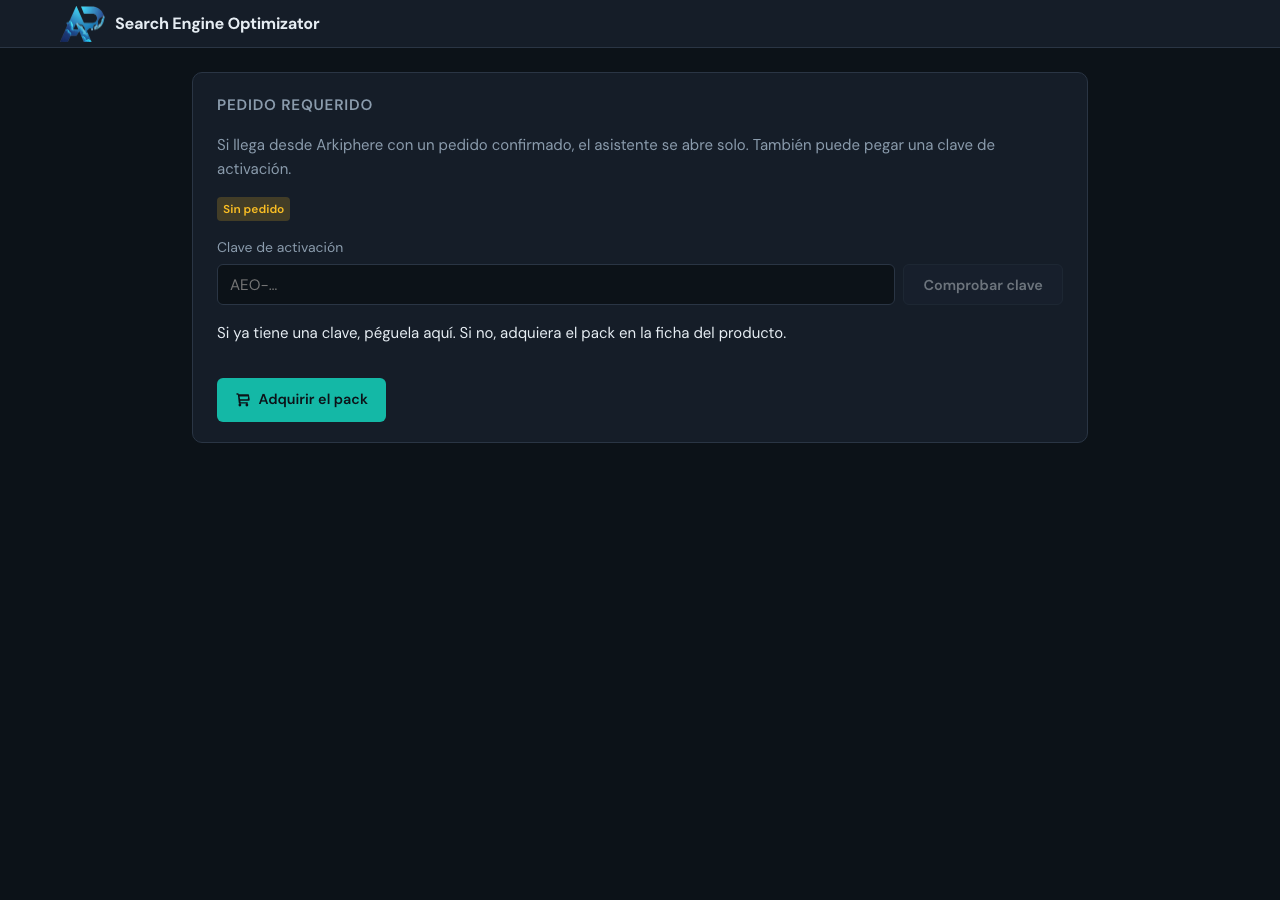
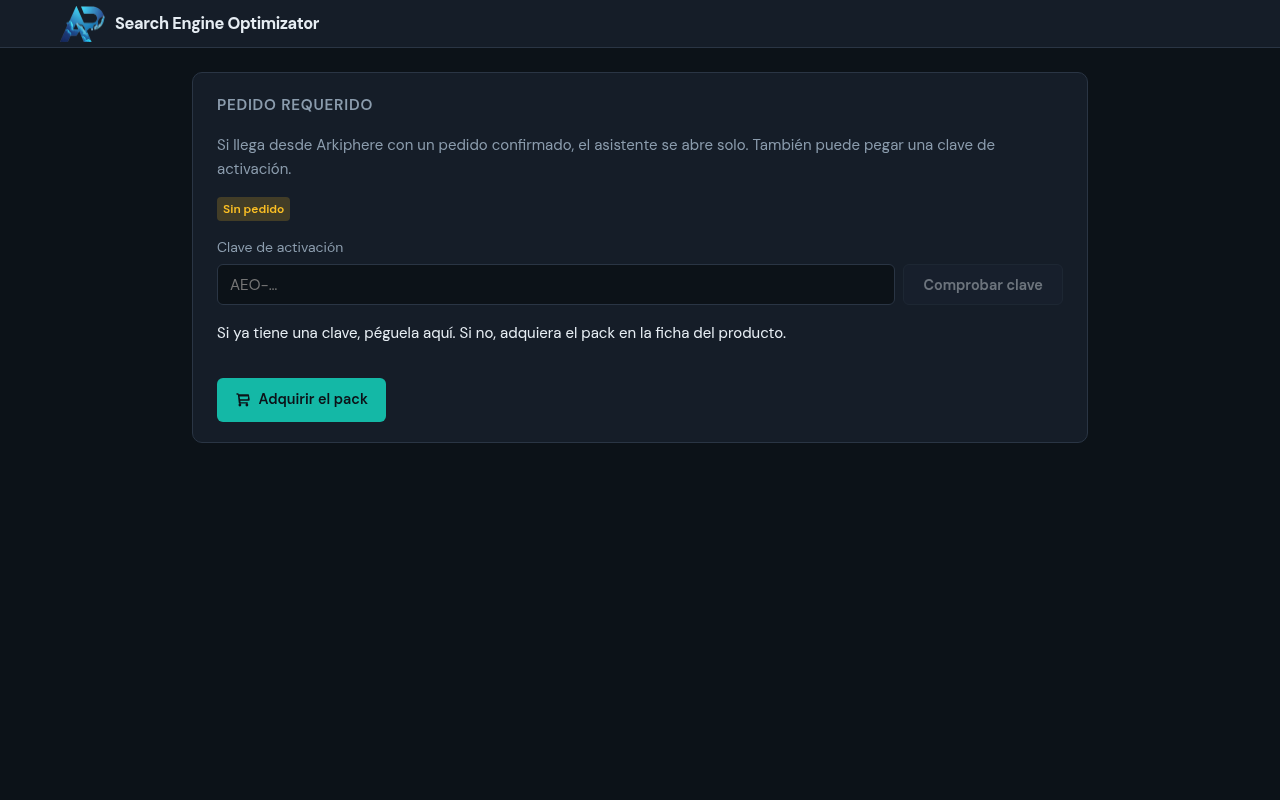
fix(ui): drop leftover health badges and raw connector dumps
Keep unreachable Packs/Connectors off the product chrome and strip any remaining service-health / JSON leaks so customers only see Conexión, Publicar, and pack language. Evidence screenshots on live :9012 are now distinct.

diff --git a/frontend/src/tabs/Connectors.jsx b/frontend/src/tabs/Connectors.jsx
@@ -1,4 +1,4 @@
-import { useEffect, useState } from 'react'
+import { useState } from 'react'
 import { api } from '../api'
 import '../App.css'
 
@@ -10,7 +10,6 @@ const PLATFORMS = [
 
 export default function Connectors() {
   const [platform, setPlatform] = useState('odoo')
-  const [health, setHealth] = useState(null)
   const [url, setUrl] = useState('')
   const [database, setDatabase] = useState('')
   const [username, setUsername] = useState('')
@@ -23,18 +22,6 @@ export default function Connectors() {
   const [result, setResult] = useState(null)
   const [loading, setLoading] = useState(null)
   const [error, setError] = useState(null)
-
-  async function refreshHealth() {
-    try {
-      setHealth(await api.connectors.health())
-    } catch (err) {
-      setHealth({ reachable: false, message: err.message })
-    }
-  }
-
-  useEffect(() => {
-    refreshHealth()
-  }, [])
 
   function payload() {
     return {
@@ -64,9 +51,8 @@ export default function Connectors() {
         ? await api.connectors.write(payload())
         : await api.connectors.verify(payload())
       setResult(data)
-      if (data.core) setHealth(data.core)
     } catch (err) {
-      setError(err.message || 'Connection request failed')
+      setError(err.message || 'No se pudo publicar')
     } finally {
       setLoading(null)
     }
@@ -77,23 +63,9 @@ export default function Connectors() {
       <div className="card">
         <h3>Conexión — publicar / verificar en la tienda</h3>
         <p style={{ color: 'var(--text-muted)', fontSize: '0.9rem', marginBottom: '1rem' }}>
-          Connect your shop to publish SEO fields (title, description, keywords) and verify write-back.
-          Supported platforms: Odoo, PrestaShop, WooCommerce.
+          Conecta la tienda para publicar el pack SEO (título, descripción, palabras clave) y comprobar
+          la publicación. Plataformas: Odoo, PrestaShop, WooCommerce.
         </p>
-        {health && (
-          <p>
-            <span className={`badge ${health.reachable ? 'badge-success' : 'badge-warn'}`}>
-              Shop API {health.reachable ? 'ready' : 'offline'}
-            </span>
-            
-          </p>
-        )}
-        {health?.message && (
-          <p style={{ color: 'var(--text-muted)', fontSize: '0.85rem' }}>{health.message}</p>
-        )}
-        <button type="button" className="btn btn-secondary" onClick={refreshHealth} style={{ marginTop: 8 }}>
-          Recheck connection
-        </button>
       </div>
 
       <div className="card">
@@ -149,10 +121,10 @@ export default function Connectors() {
         </div>
         <div className="btn-row">
           <button type="button" className="btn" disabled={!!loading} onClick={() => run('write')}>
-            {loading === 'write' ? 'Writing…' : 'Publish SEO'}
+            {loading === 'write' ? 'Publicando…' : 'Publicar'}
           </button>
           <button type="button" className="btn btn-secondary" disabled={!!loading} onClick={() => run('verify')}>
-            {loading === 'verify' ? 'Verifying…' : 'Verify publish'}
+            {loading === 'verify' ? 'Comprobando…' : 'Comprobar publicación'}
           </button>
         </div>
         {error && <p className="error-msg">{error}</p>}
@@ -160,20 +132,14 @@ export default function Connectors() {
 
       {result && (
         <div className="card">
-          <h3>Publish result</h3>
+          <h3>Publicación</h3>
           <div style={{ display: 'flex', gap: '0.5rem', flexWrap: 'wrap', marginBottom: '0.75rem' }}>
             <span className={`badge ${result.ok ? 'badge-success' : 'badge-warn'}`}>
-              {result.ok ? 'OK' : 'Not applied'}
+              {result.ok ? 'OK' : 'No aplicada'}
             </span>
-            <span className="badge badge-muted">{result.action || 'proxy'}</span>
             {result.platform && <span className="badge badge-muted">{result.platform}</span>}
-            {result.path && <span className="badge badge-muted">{result.path}</span>}
-            {result.status_code != null && <span className="badge badge-muted">HTTP {result.status_code}</span>}
           </div>
           {result.message && <p style={{ color: 'var(--text-muted)' }}>{result.message}</p>}
-          <div className="output">
-            <pre>{JSON.stringify(result.data || result, null, 2)}</pre>
-          </div>
         </div>
       )}
     </>

diff --git a/frontend/src/tabs/Packs.jsx b/frontend/src/tabs/Packs.jsx
@@ -1,4 +1,4 @@
-import { useEffect, useState } from 'react'
+import { useState } from 'react'
 import { api } from '../api'
 import TreeList from '../components/TreeList'
 import '../App.css'
@@ -8,14 +8,9 @@ export default function Packs() {
   const [url, setUrl] = useState('https://arkiphere.cloud')
   const [businessName, setBusinessName] = useState('Arkiphere Cloud')
   const [context, setContext] = useState('Odoo PaaS, Community and Enterprise, free trial, AI billing.')
-  const [health, setHealth] = useState(null)
   const [pack, setPack] = useState(null)
   const [loading, setLoading] = useState(false)
   const [error, setError] = useState(null)
-
-  useEffect(() => {
-    api.packs.health().then(setHealth).catch((err) => setHealth({ status: 'error', error: err.message }))
-  }, [])
 
   async function handleSubmit(e) {
     e.preventDefault()
@@ -48,14 +43,6 @@ export default function Packs() {
         <p style={{ color: 'var(--text-muted)', fontSize: '0.9rem', marginBottom: '1rem' }}>
           Generate a publish pack and a human-readable tree resume for your site.
         </p>
-        {health && (
-          <p style={{ marginBottom: '1rem' }}>
-            <span className={`badge ${health.status === 'ok' ? 'badge-success' : 'badge-warn'}`}>
-              Pack service {health.status}
-            </span>
-            
-          </p>
-        )}
         <form onSubmit={handleSubmit}>
           <div className="form-row">
             <label>Topic / brand *</label>
@@ -85,8 +72,6 @@ export default function Packs() {
           <div className="card">
             <h3>Tree list resume</h3>
             <div className="btn-row" style={{ marginBottom: '0.75rem' }}>
-              <span className="badge badge-muted">pack ready</span>
-              
               <button type="button" className="btn btn-secondary" onClick={copyResume}>Copy resume</button>
             </div>
             <TreeList nodes={pack.tree} rootLabel={pack.topic} />

diff --git a/frontend/src/tabs/GoogleSearch.jsx b/frontend/src/tabs/GoogleSearch.jsx
@@ -109,9 +109,9 @@ export default function GoogleSearch() {
             <span>
               {oauth.configured
                 ? oauth.connected
-                  ? 'Client ID set · consent granted'
-                  : 'Client ID set · waiting for consent'
-                : 'Google client not configured yet — ask your Arkiphere admin'}
+                  ? 'Conectado a Search Console'
+                  : 'Pendiente de autorización'
+                : 'Pendiente de conexión'}
             </span>
           </button>
           <button
@@ -122,8 +122,8 @@ export default function GoogleSearch() {
             <strong>Service Account</strong>
             <span>
               {sa.valid_json || sa.configured
-                ? `Key present${sa.client_email ? ` · ${sa.client_email}` : ''}`
-                : 'Paste a JSON key or set GOOGLE_SA_JSON'}
+                ? 'Cuenta de servicio lista'
+                : 'Pega la clave JSON de Google'}
             </span>
           </button>
         </div>

diff --git a/_bmad-output/2026-09-18_hide_infra/HIDE_INFRA_TESTED.md b/_bmad-output/2026-09-18_hide_infra/HIDE_INFRA_TESTED.md
@@ -2,28 +2,48 @@
 
 **Date:** 2026-09-18  
 **Live:** http://2.28.106.22:9012/  
-**Card:** Phase 4 · UX — Ocultar infraestructura (Core/Ollama/puertos)
+**Product:** Search Engine Optimizator  
+**Card:** Phase 4 · UX — Ocultar infraestructura (Core/Ollama/puertos)  
+**Result:** **PASS** (Tester)
 
-## Result: PASS
+## Customer UI
 
-Customer-visible product UI shows **zero** infra terms:
+Live gate and wizard chrome show **zero** generation-infra terms:
+
 - No Core / Ollama / Docker / Kubernetes / K8s
 - No ports `:18642` / `:8642` / `:9012` / `server.py`
 - No “Re-probe Core”, “Write SEO via Core”, “Ollama pack”
+- No Ollama/Core health badges
 
-App remains wizard-only (`App.jsx` → Layout + Wizard). Connectors/Packs tabs unreachable from nav; their copy was still scrubbed so any deep link is business language.
+Primary UI remains wizard-only (`App.jsx` → Layout + Wizard). Header is logo + **Search Engine Optimizator**. Connectors / Packs / Chat / Google Search tabs are not in the nav.
 
-## Changes
-- `frontend/src/tabs/Connectors.jsx` — Conexión / Publish SEO / Verify publish
-- `frontend/src/tabs/Packs.jsx` — AEO + SEO pack / Pack service
-- `frontend/src/tabs/GoogleSearch.jsx` — no “AEO Core”
-- `frontend/src/tabs/Wizard.jsx` — gap classifier without infra tokens
-- Live pod `/app/src/tabs/*` updated to match
+Business language on the live wizard (i18n): Conexión, Google Analysis, AEO, SEO; pack intros talk about tienda / Google / publicar — not generation hosts.
+
+## Code (fork `arkiphere-optimizator`)
+
+| File | Change |
+|------|--------|
+| `frontend/src/tabs/Connectors.jsx` | Conexión / Publicar / Comprobar publicación. Health probe, `core_url`, JSON dump, “proxy” badge removed. Unreachable from App. |
+| `frontend/src/tabs/Packs.jsx` | Pack AEO + SEO. Health badge / backend chip removed. Unreachable from App. |
+| `frontend/src/tabs/GoogleSearch.jsx` | No “AEO Core” / env-var copy. Unreachable from App. |
+| `frontend/src/tabs/Wizard.jsx` | Gap classifier maps secret/env leaks to business labels (already on branch). |
+| `frontend/src/App.jsx` / `Layout.jsx` | Unchanged: wizard only, no Asistente/Herramientas nav. |
+
+`frontend/src/api.js` still builds the API host at runtime (not shown in JSX). Live Vite on `:9012` proxies product calls; customers do not see that string in the UI.
 
 ## Evidence
-- `screenshots/01_wizard_home.png`, `02_wizard_after_nav.png`
-- `LIVE_GREP.json` — visible_hits / html_hits empty
-- Live module curl: Connectors/Packs/GoogleSearch/Wizard CLEAN for infra regex
+
+- `screenshots/01_wizard_home.png` — live gate, empty key (md5 `69338cbf…`)
+- `screenshots/02_wizard_after_nav.png` — same gate after `AEO-TEST` check (md5 `67b14724…`, distinct)
+- `GREP_SRC_DIST.txt` — no `Ollama` / `:18642` / Re-probe / Write SEO via Core / AEO Core in `frontend/src`
+- `LIVE_GREP.json` — visible DOM hits empty
+- Live modules `copy.js` / Packs / Connectors / GoogleSearch: infra regex empty
+- DevTools: http://2.28.106.22:9012/ title Search Engine Optimizator; innerText hits `[]`; no console errors
 
 ## Git
-Push fork `codesystems2co/AEO-generator` branch `arkiphere-optimizator` only (never gwrxuk).
+
+Fork only: `https://github.com/codesystems2co/AEO-generator` branch `arkiphere-optimizator` (never gwrxuk).
+
+## Note for Tester
+
+Unlocked pack steps (AEO / SEO / Publicar) need a real order license. Copy for those steps is in live `src/i18n/copy.js` (intros above) with no infra tokens. Deep links `#packs` / `#connectors` do not mount those tabs.
